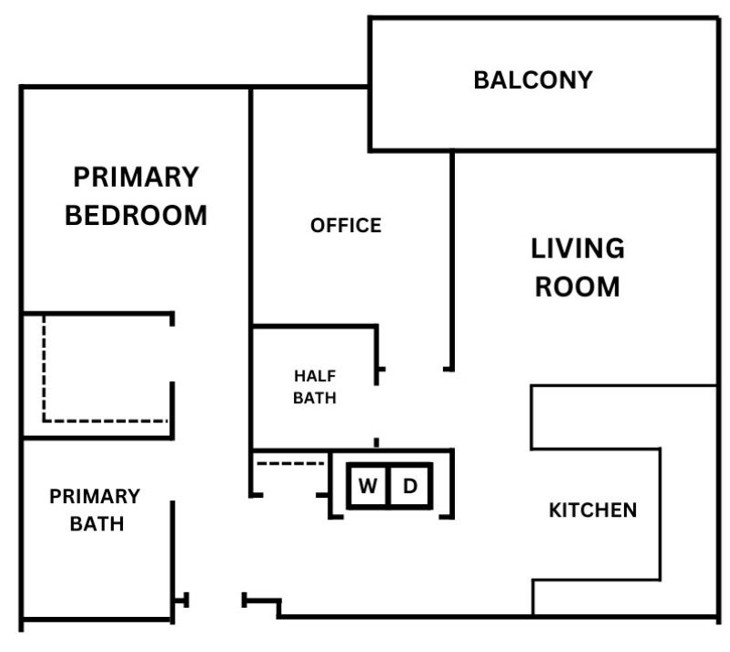
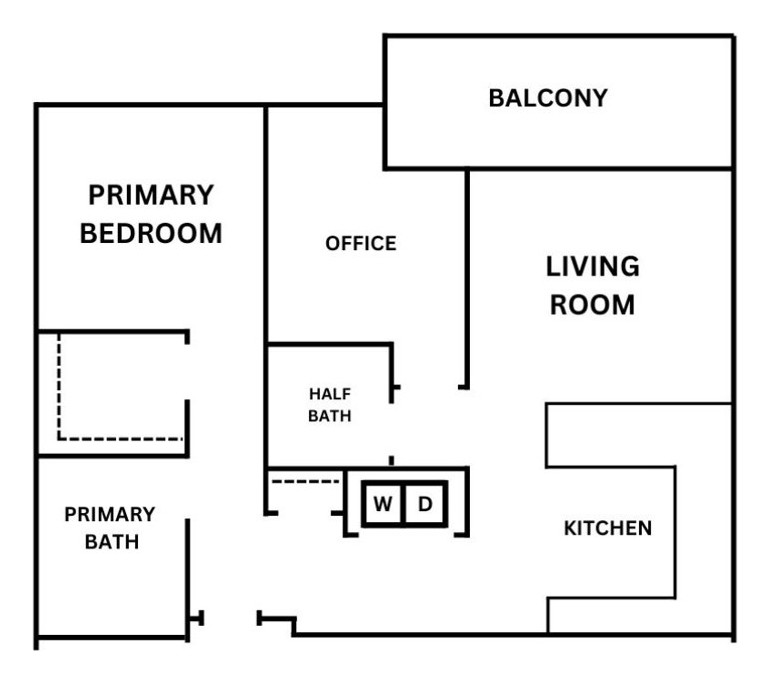
Add files via upload

diff --git a/index.html b/index.html
@@ -641,7 +641,7 @@ UNITS.forEach(u => byUnit[u.unit] = u);
    floorplan code too — e.g. the 1800 sqft townhome vs the 1800 sqft
    penthouse). 24 units have no print file in the archive and are left
    unmapped; the editor shows those as "no floorplan on file". */
-const UNIT_IMAGE_MAP = {"1101": "LW3-2471", "1102": "LW2-1968", "1103": "LW1-2122", "1104": "TH2-2153", "1105": "TH2-2153", "1106": "TH2-2153", "1107": "TH2-2153", "1201": "B2-1148", "1202": "A2-737", "1203": "A3-741-767", "1204": "A3-741-767", "1205": "A3-741-767", "1206": "A3-741-767", "1208": "S4-686-703", "1209": "A3-741-767", "1210": "A3-741-767", "1211": "A3-741-767", "1212": "A3-741-767", "1213": "A3-741-767", "1214": "S4-686-703", "1215": "A6-924", "1217": "A3-741-767", "1219": "S4-686-703", "1221": "A3-741-767", "1223": "A3-741-767", "1225": "A3-741-767", "1227": "B7-1243", "1229": "A3-741-767", "1231": "S4-686-703", "1233": "A3-741-767", "1234": "A3-741-767", "1235": "A3-741-767", "1236": "A3-741-767", "1237": "A3-741-767", "1238": "S4-686-703", "1239": "A3-741-767", "1240": "A3-741-767", "1241": "A3-741-767", "1242": "A3-741-767", "1243": "A3-741-767", "1244": "A3-741-767", "1245": "S4-686-703", "1247": "A4-824", "1248": "A4-824", "1301": "B2-1148", "1302": "A2-737", "1303": "A3-741-767", "1304": "A3-741-767", "1305": "A3-741-767", "1306": "A3-741-767", "1308": "S4-686-703", "1309": "A3-741-767", "1310": "A3-741-767", "1311": "A3-741-767", "1312": "A3-741-767", "1313": "A3-741-767", "1314": "S4-686-703", "1315": "A6-924", "1317": "A3-741-767", "1318": "B8-1716", "1319": "S4-686-703", "1321": "A3-741-767", "1322": "S3-647", "1323": "A3-741-767", "1325": "A3-741-767", "1327": "B7-1243", "1329": "A3-741-767", "1331": "S4-686-703", "1332": "S4-686-703", "1333": "A3-741-767", "1334": "A3-741-767", "1335": "A3-741-767", "1336": "A3-741-767", "1337": "A3-741-767", "1338": "S4-686-703", "1339": "A3-741-767", "1340": "A3-741-767", "1341": "A3-741-767", "1342": "A3-741-767", "1343": "A3-741-767", "1344": "A3-741-767", "1345": "S4-686-703", "1347": "A4-824", "1348": "A4-824", "1404": "A3-741-767", "1406": "A3-741-767", "1408": "S4-686-703", "1410": "A3-741-767", "1412": "A3-741-767", "1414": "S4-686-703", "1415": "A6-924", "1417": "A3-741-767", "1419": "S2-581", "1420": "B8-1716", "1422": "S3-647", "1427": "A8-1004", "1429": "A3-741-767", "1431": "S4-686-703", "1432": "S4-686-703", "1433": "A3-741-767", "1434": "A3-741-767", "1435": "A3-741-767", "1436": "A3-741-767", "1437": "A3-741-767", "1438": "S4-686-703", "1439": "A3-741-767", "1440": "A3-741-767", "1441": "A3-741-767", "1442": "A3-741-767", "1443": "A3-741-767", "1444": "A3-741-767", "1445": "S4-686-703", "1447": "B4-1173", "3103": "LW4-1732", "3104": "A5-872-895", "3105": "LW4-1732", "3106": "A1-548", "3107": "LW4-1732", "3108": "A5-872-895", "3109": "LW4-1732", "3110": "A1-548", "3111": "LW4-1732", "3112": "A1-548", "3113": "A9-1090", "3114": "B1-1020", "3202": "C3-2030", "3204": "A5-872-895", "3206": "A1-548", "3208": "A5-872-895", "3210": "A1-548", "3212": "A5-872-895", "3213": "A9-1090", "3214": "B1-1020", "3301": "B3-1150", "3302": "A1-548", "3304": "A5-872-895", "3305": "C2-1740", "3306": "A1-548", "3307": "C2-1740", "3308": "A5-872-895", "3309": "A9-1090", "3310": "A1-548", "3312": "A5-872-895", "3404": "A5-872-895", "3405": "C2-1740", "3406": "A1-548", "3407": "C2-1740", "3408": "A5-872-895", "3410": "A1-548", "3412": "A5-872-895", "3414": "PH2-1800", "4116": "TH1-1350", "4118": "TH1-1350", "4120": "B6-1240", "4121": "A5-872-895", "4122": "B5-1211", "4123": "A5-872-895", "4124": "B5-1211", "4125": "A1-548", "4126": "B5-1211", "4127": "A5-872-895", "4129": "A1-548", "4130": "B5-1211", "4131": "A5-872-895", "4132": "A9-1090", "4134": "TH1-1350", "4136": "TH1-1350", "4138": "TH2-1765", "4139": "A1-548", "4140": "TH2-1765", "4141": "B3-1150", "4144": "TH2-1800", "4146": "A7-1050", "4221": "A5-872-895", "4222": "B5-1211", "4223": "A5-872-895", "4224": "B5-1211", "4225": "A1-548", "4226": "B5-1211", "4227": "A5-872-895", "4229": "A1-548", "4230": "B5-1211", "4231": "A5-872-895", "4232": "A9-1090", "4239": "A1-548", "4241": "A5-872-895", "4243": "A1-548", "4245": "S1-530", "4246": "B5-1211", "4320": "B9-2200", "4323": "A5-872-895", "4324": "B5-1211", "4325": "A1-548", "4326": "B5-1211", "4327": "A5-872-895", "4329": "A1-548", "4330": "B5-1211", "4331": "A5-872-895", "4332": "A9-1090", "4335": "A1-548", "4337": "A5-872-895", "4339": "A1-548", "4340": "B5-1211", "4341": "S1-530", "4420": "PH1-2150", "4421": "B5-1211", "4422": "A5-872-895", "4423": "B5-1211", "4424": "A1-548", "4425": "B5-1211", "4426": "A5-872-895", "4428": "A1-548", "4430": "A5-872-895", "4431": "PH2-1800", "4432": "A1-548", "4433": "C1-1590", "4434": "A5-872-895", "4435": "PH3-1690"};
+const UNIT_IMAGE_MAP = {"1101":"LW3-2471","1102":"LW2-1968","1103":"LW1-2122","1104":"TH2-2153","1105":"TH2-2153","1106":"TH2-2153","1107":"TH2-2153","1201":"B2-1148","1202":"A2-737","1203":"A3-741-767","1204":"A3-741","1205":"A3-741-767","1206":"A3-741-767","1208":"S4-686-703","1209":"A3-741-767","1210":"A3-741-767","1211":"A3-741-767","1212":"A3-741-767","1213":"A3-741-767","1214":"S4-686-703","1215":"A6-924","1217":"A3-741-767","1219":"S4-686-703","1221":"A3-741-767","1223":"A3-741-767","1225":"A3-741-767","1227":"B7-1243","1229":"A3-741-767","1231":"S4-686-703","1233":"A3-741-767","1234":"A3-741-767","1235":"A3-741-767","1236":"A3-741-767","1237":"A3-741-767","1238":"S4-686-703","1239":"A3-741-767","1240":"A3-741-767","1241":"A3-741-767","1242":"A3-741-767","1243":"A3-741-767","1244":"A3-741-767","1245":"S4-686-703","1247":"A4-824","1248":"A4-824","1301":"B2-1148","1302":"A2-737","1303":"A3-741-767","1304":"A3-741","1305":"A3-741-767","1306":"A3-741-767","1308":"S4-686-703","1309":"A3-741-767","1310":"A3-741-767","1311":"A3-741-767","1312":"A3-741-767","1313":"A3-741-767","1314":"S4-686-703","1315":"A6-924","1317":"A3-741-767","1318":"B8-1716","1319":"S4-686-703","1321":"A3-741-767","1322":"S3-647-balcony","1323":"A3-741-767","1325":"A3-741-767","1327":"B7-1243","1329":"A3-741-767","1331":"S4-686-703","1332":"S4-686","1333":"A3-741-767","1334":"A3-741-767","1335":"A3-741-767","1336":"A3-741-767","1337":"A3-741-767","1338":"S4-686-703","1339":"A3-741-767","1340":"A3-741-767","1341":"A3-741-767","1342":"A3-741-767","1343":"A3-741-767","1344":"A3-741-767","1345":"S4-686-703","1347":"A4-824","1348":"A4-824","1404":"A3-741","1406":"A3-741-767","1408":"S4-686-703","1410":"A3-741-767","1412":"A3-741-767","1414":"S4-686-703","1415":"A6-924","1417":"A3-741-767","1419":"S2-581","1420":"B8-1716","1422":"S3-647","1427":"A8-1004","1429":"A3-741-767","1431":"S4-686-703","1432":"S4-686","1433":"A3-741-767","1434":"A3-741-767","1435":"A3-741-767","1436":"A3-741-767","1437":"A3-741-767","1438":"S4-686-703","1439":"A3-741-767","1440":"A3-741-767","1441":"A3-741-767","1442":"A3-741-767","1443":"A3-741-767","1444":"A3-741-767","1445":"S4-686-703","1447":"B4-1173","3103":"LW4-1732","3104":"A5-872-895","3105":"LW4-1732","3106":"A1-548","3107":"LW4-1732","3108":"A5-872-895","3109":"LW4-1732","3110":"A1-548","3111":"LW4-1732","3112":"A1-548","3113":"A9-1090","3114":"B1-1020","3202":"C3-2030","3204":"A5-872-895","3206":"A1-548","3208":"A5-872-895","3210":"A1-548","3212":"A5-872-895","3213":"A9-1090","3214":"B1-1020","3301":"B3-1150","3302":"A1-548","3304":"A5-872-895","3305":"C2-1740","3306":"A1-548","3307":"C2-1740","3308":"A5-872-895","3309":"A9-1090","3310":"A1-548","3312":"A5-872-895","3404":"A5-872-895","3405":"C2-1740","3406":"A1-548","3407":"C2-1740","3408":"A5-872-895","3410":"A1-548","3412":"A5-872-895","3414":"PH2-1800","4116":"TH1-1350","4118":"TH1-1350","4120":"B6-1240","4121":"A5-872-895","4122":"B5-1211","4123":"A5-872-895","4124":"B5-1211","4125":"A1-548","4126":"B5-1211","4127":"A5-872-895","4129":"A1-548","4130":"B5-1211","4131":"A5-872-895","4132":"A9-1090","4134":"TH1-1350","4136":"TH1-1350","4138":"TH2-1765","4139":"A1-548","4140":"TH2-1765","4141":"B3-1150","4144":"TH2-1800","4146":"A7-1050","4221":"A5-872-895","4222":"B5-1211","4223":"A5-872-895","4224":"B5-1211","4225":"A1-548","4226":"B5-1211","4227":"A5-872-895","4229":"A1-548","4230":"B5-1211","4231":"A5-872-895","4232":"A9-1090","4239":"A1-548","4241":"A5-872-895","4243":"A1-548","4245":"S1-530","4246":"B5-1211","4320":"B9-2200","4323":"A5-872-895","4324":"B5-1211","4325":"A1-548","4326":"B5-1211","4327":"A5-872-895","4329":"A1-548","4330":"B5-1211","4331":"A5-872-895","4332":"A9-1090","4335":"A1-548","4337":"A5-872-895","4339":"A1-548","4340":"B5-1211","4341":"S1-530","4420":"PH1-2150","4421":"B5-1211","4422":"A5-872-895","4423":"B5-1211","4424":"A1-548","4425":"B5-1211","4426":"A5-872-895","4428":"A1-548","4430":"A5-872-895","4431":"PH2-1800","4432":"A1-548","4433":"C1-1590","4434":"A5-872-895","4435":"PH3-1690","1405":"A3-664","1409":"A3-664","1411":"A3-664","1413":"A3-664","1421":"A3-664","1423":"A3-664","1425":"A3-664","3303":"A9-1062","4128":"A9-1062","4228":"A9-1062","4328":"A9-1062","4427":"A9-1062","4334":"B4-1193","4336":"B4-1193","4338":"B4-1193","1407":"A7-882","3314":"A7-940","1403":"B5-1285","4322":"B6-1500","4220":"B6-1521","3403":"PH6-1890","1207":"A7-983","1307":"A7-983","4429":"PH4-1870"};
 
 function floorplanPathForUnit(u) {
     const key = UNIT_IMAGE_MAP[u.unit];
